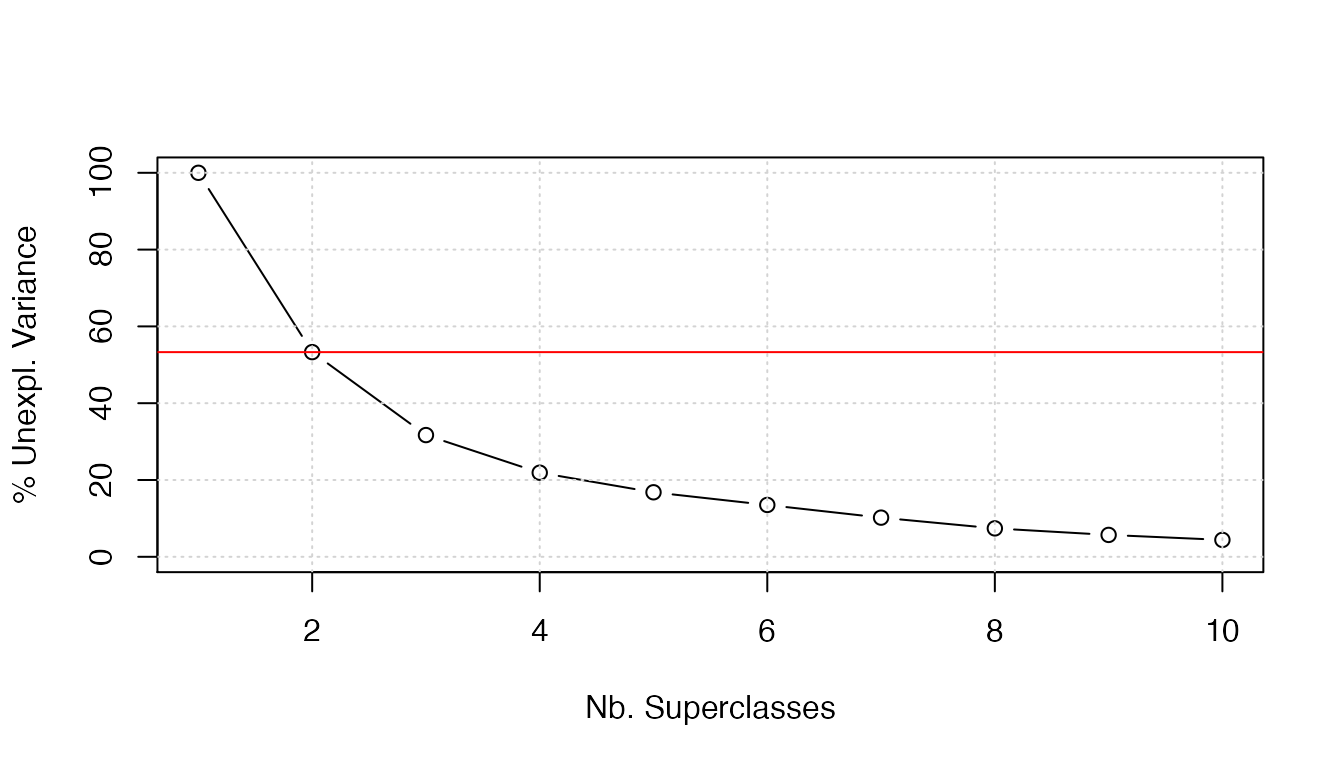
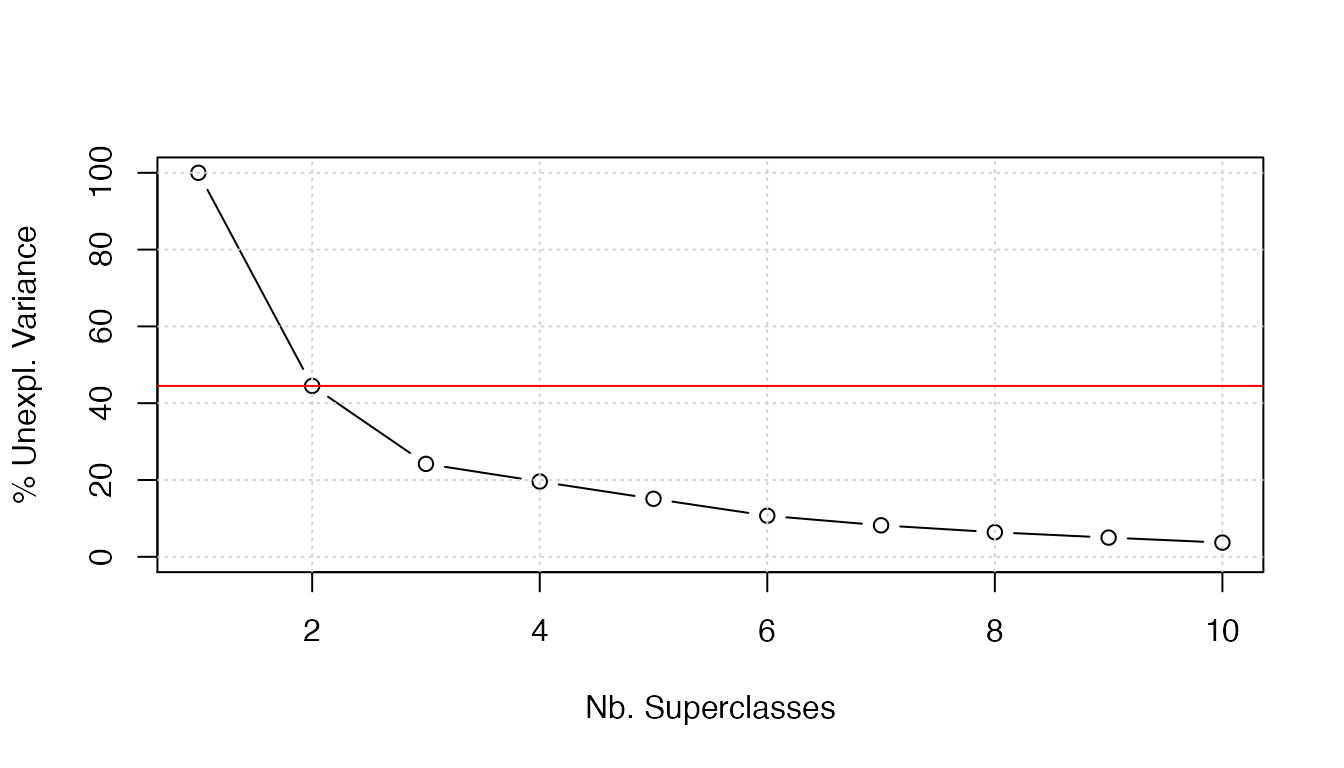
small edits on website

diff --git a/docs/articles/aweSOM-package.html b/docs/articles/aweSOM-package.html
@@ -103,14 +103,14 @@
 <code class="sourceCode R"><span class="fu">aweSOM</span><span class="fu">::</span><span class="fu"><a href="../reference/somQuality.html">somQuality</a></span><span class="op">(</span>ok.som <span class="op">=</span> <span class="va">ok.som</span>, traindat <span class="op">=</span> <span class="va">dat</span><span class="op">)</span>
 <span class="co">#&gt; </span>
 <span class="co">#&gt; ## Quality measures:</span>
-<span class="co">#&gt;  * Quantization error     :  0.2428392 </span>
-<span class="co">#&gt;  * (% explained variance) :  93.89 </span>
-<span class="co">#&gt;  * Topographic error      :  0.16 </span>
-<span class="co">#&gt;  * Kaski-Lagus error      :  1.655814 </span>
+<span class="co">#&gt;  * Quantization error     :  0.2424712 </span>
+<span class="co">#&gt;  * (% explained variance) :  93.9 </span>
+<span class="co">#&gt;  * Topographic error      :  0.28 </span>
+<span class="co">#&gt;  * Kaski-Lagus error      :  1.689054 </span>
 <span class="co">#&gt;  </span>
 <span class="co">#&gt; ## Number of obs. per map cell:</span>
 <span class="co">#&gt;  1  2  3  4  5  6  7  8  9 10 11 12 13 14 15 16 </span>
-<span class="co">#&gt;  9  9  9  7  3 15 10 11  0  0 13 10 12 21 16  5</span></code></pre></div>
+<span class="co">#&gt;  5 11 11  5 16  0 13 14  7 13  9  7 13 14  9  3</span></code></pre></div>
 <ul>
 <li><p><strong>Percentage of explained variance</strong>: Similar to other clustering methods, the share of total variance that is explained by the clustering.</p></li>
 <li><p><strong>Quantization error</strong>: Average distance between the data points and the map’s prototypes to which they are mapped.</p></li>
@@ -139,7 +139,7 @@
 <h4 id="plot-message"></h4>
 <div id="theWidget" class="aweSOMwidget html-widget" style="width:400px;height:400px;display:block; margin:auto; margin-top:5px; margin-bottom:5px;"></div>
 <p id="plot-names"></p>
-<svg id="awesom_legend_svg" width="100%"></svg><script type="application/json" data-for="theWidget">{"x":{"plotType":"Hitmap","sizeInfo":400,"gridInfo":{"nbLines":4,"nbColumns":4,"topology":"hexagonal"},"superclass":[1,1,1,1,1,1,1,1,1,1,1,1,1,1,1,1],"superclassColor":["#8DD3C7"],"cellNames":["103, 106, 108, 119, 123, 126, 130, 131, 136","51, 52, 53, 57, 66, 76, 78, 87, 138","104, 109, 112, 117, 124, 127, 129, 133, 148","84, 102, 114, 115, 122, 143, 147","110, 118, 132","101, 105, 111, 113, 116, 121, 125, 137, 140, 141, 142, 144, 145, 146, 149","62, 67, 71, 79, 85, 86, 92, 128, 139, 150","55, 59, 64, 72, 73, 74, 75, 77, 98, 134, 135","","","56, 60, 65, 68, 80, 83, 89, 91, 93, 95, 96, 97, 100","54, 63, 69, 70, 81, 82, 88, 90, 107, 120","6, 11, 15, 16, 17, 19, 20, 33, 34, 45, 47, 49","1, 5, 7, 8, 12, 18, 21, 22, 23, 24, 25, 27, 28, 29, 32, 37, 38, 40, 41, 44, 50","2, 3, 4, 9, 10, 13, 14, 26, 30, 31, 35, 36, 39, 43, 46, 48","42, 58, 61, 94, 99"],"cellPop":[9,9,9,7,3,15,10,11,0,0,13,10,12,21,16,5],"showAxes":null,"normalizedValues":[0.589188303637179,0.589188303637179,0.589188303637179,0.519615242270663,0.340168025708305,0.760638829255665,0.621059003408119,0.651372178010171,0,0,0.708116213222499,0.621059003408119,0.680336051416609,0.9,0.785584404849573,0.43915503282684],"realValues":[9,9,9,7,3,15,10,11,0,0,13,10,12,21,16,5]},"evals":[],"jsHooks":[]}</script><p>The <strong>radar plot</strong> displays the mean value for each of the variables, per cell</p>
+<svg id="awesom_legend_svg" width="100%"></svg><script type="application/json" data-for="theWidget">{"x":{"plotType":"Hitmap","sizeInfo":400,"gridInfo":{"nbLines":4,"nbColumns":4,"topology":"hexagonal"},"superclass":[1,1,1,1,1,1,1,1,1,1,1,1,1,1,1,1],"superclassColor":["#8DD3C7"],"cellNames":["58, 61, 94, 99, 107","54, 63, 69, 70, 80, 81, 82, 88, 90, 93, 120","73, 84, 104, 109, 112, 124, 127, 129, 133, 135, 147","102, 114, 115, 122, 143","2, 3, 4, 9, 10, 13, 14, 26, 30, 31, 35, 39, 42, 43, 46, 48","","55, 62, 64, 72, 74, 75, 79, 92, 98, 128, 134, 139, 150","103, 105, 113, 117, 121, 125, 126, 140, 141, 142, 144, 145, 146, 148","5, 7, 12, 23, 25, 38, 41","56, 60, 65, 67, 68, 83, 85, 89, 91, 95, 96, 97, 100","51, 52, 53, 59, 66, 76, 77, 78, 87","106, 108, 119, 123, 130, 131, 136","6, 11, 15, 16, 17, 19, 20, 22, 33, 34, 45, 47, 49","1, 8, 18, 21, 24, 27, 28, 29, 32, 36, 37, 40, 44, 50","57, 71, 86, 101, 111, 116, 137, 138, 149","110, 118, 132"],"cellPop":[5,11,11,5,16,0,13,14,7,13,9,7,13,14,9,3],"showAxes":null,"normalizedValues":[0.503115294937453,0.746240577829965,0.746240577829965,0.503115294937453,0.9,0,0.811249036979398,0.841872912024137,0.595294044989533,0.811249036979398,0.675,0.595294044989533,0.811249036979398,0.841872912024137,0.675,0.389711431702997],"realValues":[5,11,11,5,16,0,13,14,7,13,9,7,13,14,9,3]},"evals":[],"jsHooks":[]}</script><p>The <strong>radar plot</strong> displays the mean value for each of the variables, per cell</p>
 <div class="sourceCode" id="cb4"><pre class="downlit sourceCode r">
 <code class="sourceCode R"><span class="fu">aweSOM</span><span class="fu">::</span><span class="fu"><a href="../reference/aweSOMplot.html">aweSOMplot</a></span><span class="op">(</span>ok.som <span class="op">=</span> <span class="va">ok.som</span>, ok.sc <span class="op">=</span> <span class="va">superclasses</span>, ok.data <span class="op">=</span> <span class="va">ok.data</span>,
                    graphType <span class="op">=</span> <span class="st">'Radar'</span>,  
@@ -150,7 +150,7 @@
 <h4 id="plot-message"></h4>
 <div id="theWidget" class="aweSOMwidget html-widget" style="width:400px;height:400px;display:block; margin:auto; margin-top:5px; margin-bottom:5px;"></div>
 <p id="plot-names"></p>
-<svg id="awesom_legend_svg" width="100%"></svg><script type="application/json" data-for="theWidget">{"x":{"plotType":"Radar","sizeInfo":400,"gridInfo":{"nbLines":4,"nbColumns":4,"topology":"hexagonal"},"superclass":[1,1,1,1,1,1,1,1,1,1,1,1,1,1,1,1],"superclassColor":["#8DD3C7"],"cellNames":["103, 106, 108, 119, 123, 126, 130, 131, 136","51, 52, 53, 57, 66, 76, 78, 87, 138","104, 109, 112, 117, 124, 127, 129, 133, 148","84, 102, 114, 115, 122, 143, 147","110, 118, 132","101, 105, 111, 113, 116, 121, 125, 137, 140, 141, 142, 144, 145, 146, 149","62, 67, 71, 79, 85, 86, 92, 128, 139, 150","55, 59, 64, 72, 73, 74, 75, 77, 98, 134, 135","","","56, 60, 65, 68, 80, 83, 89, 91, 93, 95, 96, 97, 100","54, 63, 69, 70, 81, 82, 88, 90, 107, 120","6, 11, 15, 16, 17, 19, 20, 33, 34, 45, 47, 49","1, 5, 7, 8, 12, 18, 21, 22, 23, 24, 25, 27, 28, 29, 32, 37, 38, 40, 41, 44, 50","2, 3, 4, 9, 10, 13, 14, 26, 30, 31, 35, 36, 39, 43, 46, 48","42, 58, 61, 94, 99"],"cellPop":[9,9,9,7,3,15,10,11,0,0,13,10,12,21,16,5],"showAxes":null,"nVars":4,"labelColor":["#440154","#31688E","#35B779","#FDE725"],"label":["Sepal.Length","Sepal.Width","Petal.Length","Petal.Width"],"normalizedValues":[[0.898172413793104,0.394492307692308,0.926031237484982,0.827410071942446],[0.649896551724138,0.505261538461539,0.653724469363236,0.630575539568345],[0.581,0.326923076923077,0.76383660392471,0.793741007194245],[0.409068965517241,0.255476923076923,0.705446535843012,0.813597122302158],[0.95,0.843661538461539,0.95,0.93273381294964],[0.645862068965517,0.541261538461538,0.793752503003604,0.95],[0.419310344827586,0.465384615384615,0.632819383259912,0.668129496402878],[0.552137931034483,0.321938461538462,0.642010412494994,0.561510791366907],[null,null,null,null],[null,null,null,null],[0.343586206896552,0.309753846153846,0.527212655186224,0.50021582733813],[0.360344827586207,0.0776923076923078,0.549919903884661,0.52136690647482],[0.264758620689655,0.95,0.0714457348818582,0.0875539568345324],[0.156448275862069,0.693569230769231,0.062615138165799,0.0858273381294964],[0.05,0.482553846153846,0.05,0.05],[0.112068965517241,0.05,0.315638766519824,0.348705035971223]],"realValues":[[7.433,2.922,6.267,1.989],[6.633,3.122,4.756,1.533],[6.411,2.8,5.367,1.911],[5.857,2.671,5.043,1.957],[7.6,3.733,6.4,2.233],[6.62,3.187,5.533,2.273],[5.89,3.05,4.64,1.62],[6.318,2.791,4.691,1.373],[null,null,null,null],[null,null,null,null],[5.646,2.769,4.054,1.231],[5.7,2.35,4.18,1.28],[5.392,3.925,1.525,0.275],[5.043,3.462,1.476,0.271],[4.7,3.081,1.406,0.188],[4.9,2.3,2.88,0.88]],"isCatBarplot":false,"showSuperclass":true},"evals":[],"jsHooks":[]}</script><p>This can also be represented with barplots when the number of variables is limited.</p>
+<svg id="awesom_legend_svg" width="100%"></svg><script type="application/json" data-for="theWidget">{"x":{"plotType":"Radar","sizeInfo":400,"gridInfo":{"nbLines":4,"nbColumns":4,"topology":"hexagonal"},"superclass":[1,1,1,1,1,1,1,1,1,1,1,1,1,1,1,1],"superclassColor":["#8DD3C7"],"cellNames":["58, 61, 94, 99, 107","54, 63, 69, 70, 80, 81, 82, 88, 90, 93, 120","73, 84, 104, 109, 112, 124, 127, 129, 133, 135, 147","102, 114, 115, 122, 143","2, 3, 4, 9, 10, 13, 14, 26, 30, 31, 35, 39, 42, 43, 46, 48","","55, 62, 64, 72, 74, 75, 79, 92, 98, 128, 134, 139, 150","103, 105, 113, 117, 121, 125, 126, 140, 141, 142, 144, 145, 146, 148","5, 7, 12, 23, 25, 38, 41","56, 60, 65, 67, 68, 83, 85, 89, 91, 95, 96, 97, 100","51, 52, 53, 59, 66, 76, 77, 78, 87","106, 108, 119, 123, 130, 131, 136","6, 11, 15, 16, 17, 19, 20, 22, 33, 34, 45, 47, 49","1, 8, 18, 21, 24, 27, 28, 29, 32, 36, 37, 40, 44, 50","57, 71, 86, 101, 111, 116, 137, 138, 149","110, 118, 132"],"cellPop":[5,11,11,5,16,0,13,14,7,13,9,7,13,14,9,3],"showAxes":null,"nVars":4,"labelColor":["#440154","#31688E","#35B779","#FDE725"],"label":["Sepal.Length","Sepal.Width","Petal.Length","Petal.Width"],"normalizedValues":[[0.145496417604913,0.05,0.43024864648085,0.476385483079941],[0.391760491299898,0.074107142857143,0.530048125125326,0.498013732221677],[0.553582395087001,0.246301020408163,0.749859635051133,0.758876900441393],[0.378863868986694,0.256632653061225,0.704561860838179,0.864811181951937],[0.05,0.443176020408163,0.05,0.05],[null,null,null,null],[0.4989252814739,0.376020408163265,0.625155404050531,0.619838155958803],[0.697901740020471,0.490242346938776,0.803098054942851,0.919543894065719],[0.0945240532241557,0.715816326530612,0.0528875075195508,0.0588278567925454],[0.338331627430911,0.331823979591837,0.547373170242631,0.534649337910741],[0.677021494370522,0.454081632653061,0.637246841788651,0.607037763609613],[0.923592630501536,0.354783163265306,0.942239823541207,0.847155468366847],[0.264943705220061,0.95,0.069851614196912,0.0901667484060814],[0.197697031729785,0.662436224489796,0.0619109685181472,0.0906081412457087],[0.537308085977482,0.588392857142857,0.735422097453379,0.861721432074546],[0.95,0.849553571428572,0.95,0.95]],"realValues":[[4.98,2.34,3.52,1.16],[5.782,2.382,4.073,1.209],[6.309,2.682,5.291,1.8],[5.74,2.7,5.04,2.04],[4.669,3.025,1.413,0.194],[null,null,null,null],[6.131,2.908,4.6,1.485],[6.779,3.107,5.586,2.164],[4.814,3.5,1.429,0.214],[5.608,2.831,4.169,1.292],[6.711,3.044,4.667,1.456],[7.514,2.871,6.357,2],[5.369,3.908,1.523,0.285],[5.15,3.407,1.479,0.286],[6.256,3.278,5.211,2.033],[7.6,3.733,6.4,2.233]],"isCatBarplot":false,"showSuperclass":true},"evals":[],"jsHooks":[]}</script><p>This can also be represented with barplots when the number of variables is limited.</p>
 <div class="sourceCode" id="cb5"><pre class="downlit sourceCode r">
 <code class="sourceCode R"><span class="fu">aweSOM</span><span class="fu">::</span><span class="fu"><a href="../reference/aweSOMplot.html">aweSOMplot</a></span><span class="op">(</span>ok.som <span class="op">=</span> <span class="va">ok.som</span>, ok.sc <span class="op">=</span> <span class="va">superclasses</span>, ok.data <span class="op">=</span> <span class="va">ok.data</span>,
                    graphType <span class="op">=</span> <span class="st">'Barplot'</span>,  
@@ -161,7 +161,7 @@
 <h4 id="plot-message"></h4>
 <div id="theWidget" class="aweSOMwidget html-widget" style="width:400px;height:400px;display:block; margin:auto; margin-top:5px; margin-bottom:5px;"></div>
 <p id="plot-names"></p>
-<svg id="awesom_legend_svg" width="100%"></svg><script type="application/json" data-for="theWidget">{"x":{"plotType":"Barplot","sizeInfo":400,"gridInfo":{"nbLines":4,"nbColumns":4,"topology":"hexagonal"},"superclass":[1,1,1,1,1,1,1,1,1,1,1,1,1,1,1,1],"superclassColor":["#8DD3C7"],"cellNames":["103, 106, 108, 119, 123, 126, 130, 131, 136","51, 52, 53, 57, 66, 76, 78, 87, 138","104, 109, 112, 117, 124, 127, 129, 133, 148","84, 102, 114, 115, 122, 143, 147","110, 118, 132","101, 105, 111, 113, 116, 121, 125, 137, 140, 141, 142, 144, 145, 146, 149","62, 67, 71, 79, 85, 86, 92, 128, 139, 150","55, 59, 64, 72, 73, 74, 75, 77, 98, 134, 135","","","56, 60, 65, 68, 80, 83, 89, 91, 93, 95, 96, 97, 100","54, 63, 69, 70, 81, 82, 88, 90, 107, 120","6, 11, 15, 16, 17, 19, 20, 33, 34, 45, 47, 49","1, 5, 7, 8, 12, 18, 21, 22, 23, 24, 25, 27, 28, 29, 32, 37, 38, 40, 41, 44, 50","2, 3, 4, 9, 10, 13, 14, 26, 30, 31, 35, 36, 39, 43, 46, 48","42, 58, 61, 94, 99"],"cellPop":[9,9,9,7,3,15,10,11,0,0,13,10,12,21,16,5],"showAxes":null,"nVars":4,"labelColor":["#440154","#31688E","#35B779","#FDE725"],"label":["Sepal.Length","Sepal.Width","Petal.Length","Petal.Width"],"normalizedValues":[[0.898172413793104,0.394492307692308,0.926031237484982,0.827410071942446],[0.649896551724138,0.505261538461539,0.653724469363236,0.630575539568345],[0.581,0.326923076923077,0.76383660392471,0.793741007194245],[0.409068965517241,0.255476923076923,0.705446535843012,0.813597122302158],[0.95,0.843661538461539,0.95,0.93273381294964],[0.645862068965517,0.541261538461538,0.793752503003604,0.95],[0.419310344827586,0.465384615384615,0.632819383259912,0.668129496402878],[0.552137931034483,0.321938461538462,0.642010412494994,0.561510791366907],[null,null,null,null],[null,null,null,null],[0.343586206896552,0.309753846153846,0.527212655186224,0.50021582733813],[0.360344827586207,0.0776923076923078,0.549919903884661,0.52136690647482],[0.264758620689655,0.95,0.0714457348818582,0.0875539568345324],[0.156448275862069,0.693569230769231,0.062615138165799,0.0858273381294964],[0.05,0.482553846153846,0.05,0.05],[0.112068965517241,0.05,0.315638766519824,0.348705035971223]],"realValues":[[7.433,2.922,6.267,1.989],[6.633,3.122,4.756,1.533],[6.411,2.8,5.367,1.911],[5.857,2.671,5.043,1.957],[7.6,3.733,6.4,2.233],[6.62,3.187,5.533,2.273],[5.89,3.05,4.64,1.62],[6.318,2.791,4.691,1.373],[null,null,null,null],[null,null,null,null],[5.646,2.769,4.054,1.231],[5.7,2.35,4.18,1.28],[5.392,3.925,1.525,0.275],[5.043,3.462,1.476,0.271],[4.7,3.081,1.406,0.188],[4.9,2.3,2.88,0.88]],"isCatBarplot":false,"showSuperclass":true},"evals":[],"jsHooks":[]}</script><p>Other information can also be plotted:</p>
+<svg id="awesom_legend_svg" width="100%"></svg><script type="application/json" data-for="theWidget">{"x":{"plotType":"Barplot","sizeInfo":400,"gridInfo":{"nbLines":4,"nbColumns":4,"topology":"hexagonal"},"superclass":[1,1,1,1,1,1,1,1,1,1,1,1,1,1,1,1],"superclassColor":["#8DD3C7"],"cellNames":["58, 61, 94, 99, 107","54, 63, 69, 70, 80, 81, 82, 88, 90, 93, 120","73, 84, 104, 109, 112, 124, 127, 129, 133, 135, 147","102, 114, 115, 122, 143","2, 3, 4, 9, 10, 13, 14, 26, 30, 31, 35, 39, 42, 43, 46, 48","","55, 62, 64, 72, 74, 75, 79, 92, 98, 128, 134, 139, 150","103, 105, 113, 117, 121, 125, 126, 140, 141, 142, 144, 145, 146, 148","5, 7, 12, 23, 25, 38, 41","56, 60, 65, 67, 68, 83, 85, 89, 91, 95, 96, 97, 100","51, 52, 53, 59, 66, 76, 77, 78, 87","106, 108, 119, 123, 130, 131, 136","6, 11, 15, 16, 17, 19, 20, 22, 33, 34, 45, 47, 49","1, 8, 18, 21, 24, 27, 28, 29, 32, 36, 37, 40, 44, 50","57, 71, 86, 101, 111, 116, 137, 138, 149","110, 118, 132"],"cellPop":[5,11,11,5,16,0,13,14,7,13,9,7,13,14,9,3],"showAxes":null,"nVars":4,"labelColor":["#440154","#31688E","#35B779","#FDE725"],"label":["Sepal.Length","Sepal.Width","Petal.Length","Petal.Width"],"normalizedValues":[[0.145496417604913,0.05,0.43024864648085,0.476385483079941],[0.391760491299898,0.074107142857143,0.530048125125326,0.498013732221677],[0.553582395087001,0.246301020408163,0.749859635051133,0.758876900441393],[0.378863868986694,0.256632653061225,0.704561860838179,0.864811181951937],[0.05,0.443176020408163,0.05,0.05],[null,null,null,null],[0.4989252814739,0.376020408163265,0.625155404050531,0.619838155958803],[0.697901740020471,0.490242346938776,0.803098054942851,0.919543894065719],[0.0945240532241557,0.715816326530612,0.0528875075195508,0.0588278567925454],[0.338331627430911,0.331823979591837,0.547373170242631,0.534649337910741],[0.677021494370522,0.454081632653061,0.637246841788651,0.607037763609613],[0.923592630501536,0.354783163265306,0.942239823541207,0.847155468366847],[0.264943705220061,0.95,0.069851614196912,0.0901667484060814],[0.197697031729785,0.662436224489796,0.0619109685181472,0.0906081412457087],[0.537308085977482,0.588392857142857,0.735422097453379,0.861721432074546],[0.95,0.849553571428572,0.95,0.95]],"realValues":[[4.98,2.34,3.52,1.16],[5.782,2.382,4.073,1.209],[6.309,2.682,5.291,1.8],[5.74,2.7,5.04,2.04],[4.669,3.025,1.413,0.194],[null,null,null,null],[6.131,2.908,4.6,1.485],[6.779,3.107,5.586,2.164],[4.814,3.5,1.429,0.214],[5.608,2.831,4.169,1.292],[6.711,3.044,4.667,1.456],[7.514,2.871,6.357,2],[5.369,3.908,1.523,0.285],[5.15,3.407,1.479,0.286],[6.256,3.278,5.211,2.033],[7.6,3.733,6.4,2.233]],"isCatBarplot":false,"showSuperclass":true},"evals":[],"jsHooks":[]}</script><p>Other information can also be plotted:</p>
 <ul>
 <li>
 <strong>Boxplot</strong> displays the quartile distribution of values for each cell.</li>
@@ -181,7 +181,7 @@
 <h4 id="plot-message"></h4>
 <div id="theWidget" class="aweSOMwidget html-widget" style="width:400px;height:400px;display:block; margin:auto; margin-top:5px; margin-bottom:5px;"></div>
 <p id="plot-names"></p>
-<svg id="awesom_legend_svg" width="100%"></svg><script type="application/json" data-for="theWidget">{"x":{"plotType":"Camembert","sizeInfo":400,"gridInfo":{"nbLines":4,"nbColumns":4,"topology":"hexagonal"},"superclass":[1,1,1,1,1,1,1,1,1,1,1,1,1,1,1,1],"superclassColor":["#8DD3C7"],"cellNames":["virginica, virginica, virginica, virginica, virginica, virginica, virginica, virginica, virginica","versicolor, versicolor, versicolor, versicolor, versicolor, versicolor, versicolor, versicolor, virginica","virginica, virginica, virginica, virginica, virginica, virginica, virginica, virginica, virginica","versicolor, virginica, virginica, virginica, virginica, virginica, virginica","virginica, virginica, virginica","virginica, virginica, virginica, virginica, virginica, virginica, virginica, virginica, virginica, virginica, virginica, virginica, virginica, virginica, virginica","versicolor, versicolor, versicolor, versicolor, versicolor, versicolor, versicolor, virginica, virginica, virginica","versicolor, versicolor, versicolor, versicolor, versicolor, versicolor, versicolor, versicolor, versicolor, virginica, virginica","","","versicolor, versicolor, versicolor, versicolor, versicolor, versicolor, versicolor, versicolor, versicolor, versicolor, versicolor, versicolor, versicolor","versicolor, versicolor, versicolor, versicolor, versicolor, versicolor, versicolor, versicolor, virginica, virginica","setosa, setosa, setosa, setosa, setosa, setosa, setosa, setosa, setosa, setosa, setosa, setosa","setosa, setosa, setosa, setosa, setosa, setosa, setosa, setosa, setosa, setosa, setosa, setosa, setosa, setosa, setosa, setosa, setosa, setosa, setosa, setosa, setosa","setosa, setosa, setosa, setosa, setosa, setosa, setosa, setosa, setosa, setosa, setosa, setosa, setosa, setosa, setosa, setosa","setosa, versicolor, versicolor, versicolor, versicolor"],"cellPop":[9,9,9,7,3,15,10,11,0,0,13,10,12,21,16,5],"showAxes":null,"nVars":3,"label":["setosa","versicolor","virginica"],"labelColor":["#440154","#21908C","#FDE725"],"normalizedSize":[0.589188303637179,0.589188303637179,0.589188303637179,0.519615242270663,0.340168025708305,0.760638829255665,0.621059003408119,0.651372178010171,0,0,0.708116213222499,0.621059003408119,0.680336051416609,0.9,0.785584404849573,0.43915503282684],"realSize":[9,9,9,7,3,15,10,11,0,0,13,10,12,21,16,5],"normalizedValues":[[0,0,1],[0,0.888888888888889,0.111111111111111],[0,0,1],[0,0.142857142857143,0.857142857142857],[0,0,1],[0,0,1],[0,0.7,0.3],[0,0.818181818181818,0.181818181818182],[0.333333333333333,0.333333333333333,0.333333333333333],[0.333333333333333,0.333333333333333,0.333333333333333],[0,1,0],[0,0.8,0.2],[1,0,0],[1,0,0],[1,0,0],[0.2,0.8,0]],"realValues":[[0,0,9],[0,8,1],[0,0,9],[0,1,6],[0,0,3],[0,0,15],[0,7,3],[0,9,2],[0,0,0],[0,0,0],[0,13,0],[0,8,2],[12,0,0],[21,0,0],[16,0,0],[1,4,0]]},"evals":[],"jsHooks":[]}</script><p>In this case, we plot the <em>Species</em>, which returns the percentage of species grouped in each cell. One can see that the algorithm did cluster the species together with quasi-perfection</p>
+<svg id="awesom_legend_svg" width="100%"></svg><script type="application/json" data-for="theWidget">{"x":{"plotType":"Camembert","sizeInfo":400,"gridInfo":{"nbLines":4,"nbColumns":4,"topology":"hexagonal"},"superclass":[1,1,1,1,1,1,1,1,1,1,1,1,1,1,1,1],"superclassColor":["#8DD3C7"],"cellNames":["versicolor, versicolor, versicolor, versicolor, virginica","versicolor, versicolor, versicolor, versicolor, versicolor, versicolor, versicolor, versicolor, versicolor, versicolor, virginica","versicolor, versicolor, virginica, virginica, virginica, virginica, virginica, virginica, virginica, virginica, virginica","virginica, virginica, virginica, virginica, virginica","setosa, setosa, setosa, setosa, setosa, setosa, setosa, setosa, setosa, setosa, setosa, setosa, setosa, setosa, setosa, setosa","","versicolor, versicolor, versicolor, versicolor, versicolor, versicolor, versicolor, versicolor, versicolor, virginica, virginica, virginica, virginica","virginica, virginica, virginica, virginica, virginica, virginica, virginica, virginica, virginica, virginica, virginica, virginica, virginica, virginica","setosa, setosa, setosa, setosa, setosa, setosa, setosa","versicolor, versicolor, versicolor, versicolor, versicolor, versicolor, versicolor, versicolor, versicolor, versicolor, versicolor, versicolor, versicolor","versicolor, versicolor, versicolor, versicolor, versicolor, versicolor, versicolor, versicolor, versicolor","virginica, virginica, virginica, virginica, virginica, virginica, virginica","setosa, setosa, setosa, setosa, setosa, setosa, setosa, setosa, setosa, setosa, setosa, setosa, setosa","setosa, setosa, setosa, setosa, setosa, setosa, setosa, setosa, setosa, setosa, setosa, setosa, setosa, setosa","versicolor, versicolor, versicolor, virginica, virginica, virginica, virginica, virginica, virginica","virginica, virginica, virginica"],"cellPop":[5,11,11,5,16,0,13,14,7,13,9,7,13,14,9,3],"showAxes":null,"nVars":3,"label":["setosa","versicolor","virginica"],"labelColor":["#440154","#21908C","#FDE725"],"normalizedSize":[0.503115294937453,0.746240577829965,0.746240577829965,0.503115294937453,0.9,0,0.811249036979398,0.841872912024137,0.595294044989533,0.811249036979398,0.675,0.595294044989533,0.811249036979398,0.841872912024137,0.675,0.389711431702997],"realSize":[5,11,11,5,16,0,13,14,7,13,9,7,13,14,9,3],"normalizedValues":[[0,0.8,0.2],[0,0.909090909090909,0.0909090909090909],[0,0.181818181818182,0.818181818181818],[0,0,1],[1,0,0],[0.333333333333333,0.333333333333333,0.333333333333333],[0,0.692307692307692,0.307692307692308],[0,0,1],[1,0,0],[0,1,0],[0,1,0],[0,0,1],[1,0,0],[1,0,0],[0,0.333333333333333,0.666666666666667],[0,0,1]],"realValues":[[0,4,1],[0,10,1],[0,2,9],[0,0,5],[16,0,0],[0,0,0],[0,9,4],[0,0,14],[7,0,0],[0,13,0],[0,9,0],[0,0,7],[13,0,0],[14,0,0],[0,3,6],[0,0,3]]},"evals":[],"jsHooks":[]}</script><p>In this case, we plot the <em>Species</em>, which returns the percentage of species grouped in each cell. One can see that the algorithm did cluster the species together with quasi-perfection</p>
 <p>Further options are available to explore the dataset, and several arguments can be specified</p>
 <ul>
 <li>
